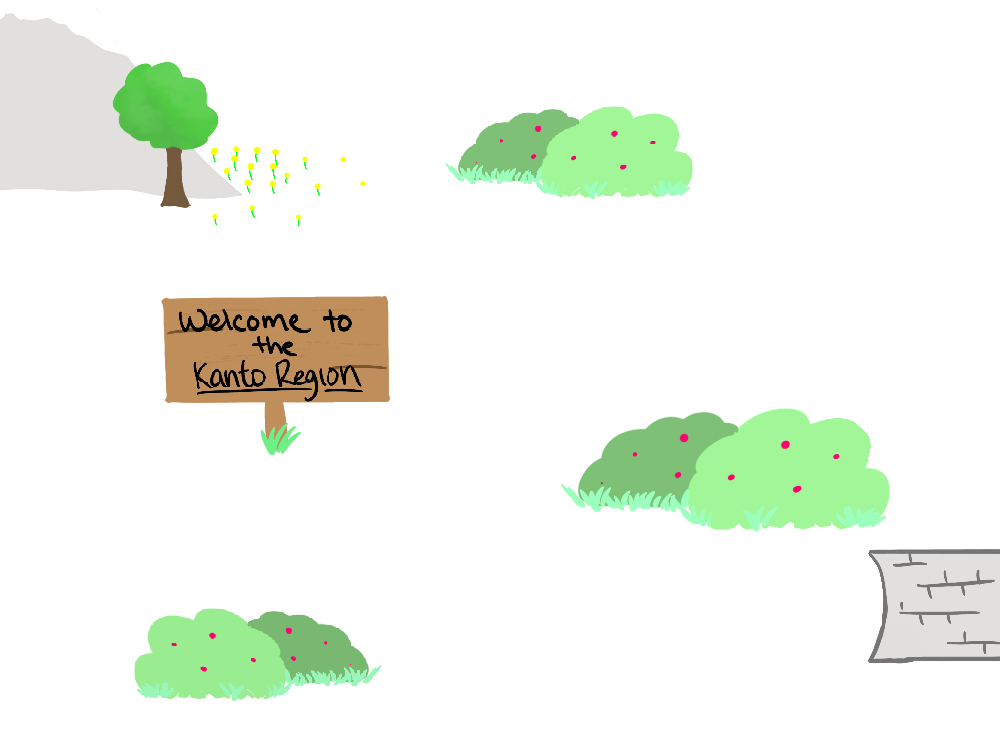
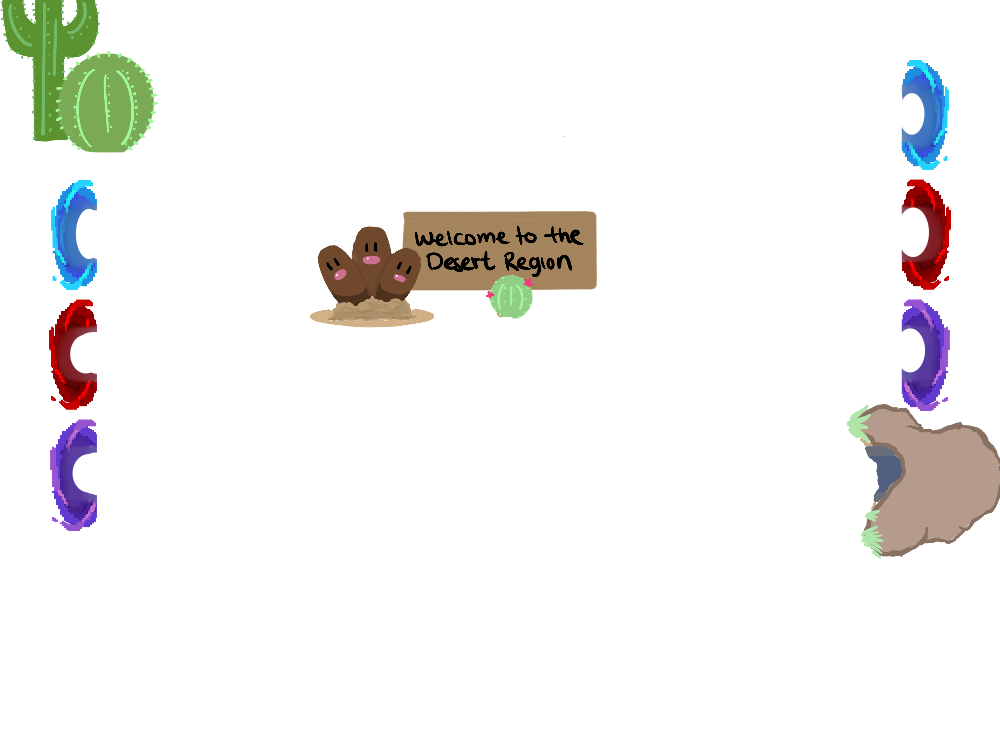
changed bg, roads variables, fixed shooter

diff --git a/lines.py b/lines.py
@@ -3,27 +3,45 @@ import pygame
 from spiral import *
 from balls import *
 
-# top horizontal
-road1 = draw.line(window, (0, 0, 0), (100, 100), (900, 100), 1)
-# middle horizontal
-road2 = draw.line(window, (0, 0, 0), (100, 300), (900, 300), 1)
-# bottom horizontal
-road5 = draw.line(window, (0, 0, 0), (100, 600), (900, 600), 1)
-# higher vertical
-road3 = draw.line(window, (0, 0, 0), (900, 100), (900, 300), 1)
-# lower vertical
-road4 = draw.line(window, (0, 0, 0), (100, 300), (100, 600), 1)
+# map 1
+road1 = draw.line(window, (0, 0, 0), (100, 100), (900, 100), 1)  # top horizontal
+road2 = draw.line(window, (0, 0, 0), (100, 300), (900, 300), 1)  # middle horizontal
+road5 = draw.line(window, (0, 0, 0), (100, 600), (900, 600), 1)  # bottom horizontal
+road3 = draw.line(window, (0, 0, 0), (900, 100), (900, 300), 1)  # higher vertical
+road4 = draw.line(window, (0, 0, 0), (100, 300), (100, 600), 1)  # lower vertical
+horizRoads1 = [road1, road2, road5]
+vertRoads1 = [road3, road4]
 
-horizRoads = [road1, road2, road5]
-vertRoads = [road3, road4]
+# map 2: horizontal lines top to bottom
+road1 = pygame.draw.line(window, (0, 0, 0), (50, 100), (930, 100), 1)
+road2 = pygame.draw.line(window, (0, 0, 0), (50, 220), (930, 220), 1)
+road3 = pygame.draw.line(window, (0, 0, 0), (50, 340), (930, 340), 1)
+road4 = pygame.draw.line(window, (0, 0, 0), (50, 460), (930, 460), 1)
+horizRoads2 = [road1, road2, road3, road4]
+
+# map 3
+road1 = pygame.draw.line(window, (0, 0, 0), (100, 100), (800, 100), 1)
+road2 = pygame.draw.line(window, (0, 0, 0), (800, 100), (800, 200), 1)
+road3 = pygame.draw.line(window, (0, 0, 0), (100, 200), (800, 200), 1)
+teleport1 = pygame.draw.line(window, (0, 0, 0), (101, 199), (101, 201), 1)
+
+road4 = pygame.draw.line(window, (0, 0, 0), (1000 - 100, 100 + 450), (1000 - 801, 100 + 450), 1)
+road5 = pygame.draw.line(window, (0, 0, 0), (1000 - 800, 99 + 450), (1000 - 800, 201 + 450), 1)
+road6 = pygame.draw.line(window, (0, 0, 0), (1000 - 100, 199 + 450), (1000 - 801, 199 + 450), 1)
+
+horizRoads3 = [road1, road3, road4, road6]
+vertRoads3 = [road2, road5]
 
 
 def map1(ball):
+    horizRoads = horizRoads1
+    vertRoads = vertRoads1
 
     if ball.rect.colliderect(horizRoads[ball.road_h]):
         ball.move(0, ball.x_move)
 
-    if ball.rect.colliderect(vertRoads[ball.road_v]) or (ball.road_v >= 1 and ball.rect.colliderect(vertRoads[ball.road_v - 1])):
+    if ball.rect.colliderect(vertRoads[ball.road_v]) or (
+            ball.road_v >= 1 and ball.rect.colliderect(vertRoads[ball.road_v - 1])):
         ball.move(1, ball.y_move)
 
     if ball.rect.colliderect(horizRoads[ball.road_h]) and ball.rect.colliderect(vertRoads[ball.road_v]):
@@ -33,42 +51,24 @@ def map1(ball):
             ball.road_h += 1
             ball.x_move *= -1
 
+
 def map2(ball):
-
-    roadVert = pygame.draw.line(window, (255, 255, 255), (900, 100), (900, 500), 1)
-
-    road1=pygame.draw.line(window, (0, 0, 0), (100, 100), (900, 100), 1)
-
-    road2=pygame.draw.line(window, (0, 0, 0), (100, 220), (900, 220), 1)
-
-    road3=pygame.draw.line(window, (0, 0, 0), (100, 340), (900, 340), 1)
-
-    road4 = pygame.draw.line(window, (0, 0, 0), (100, 460), (900, 460), 1)
-
-    horizRoads=[road1, road2, road3, road4]
+    horizRoads = horizRoads2
 
     if ball.rect.colliderect(horizRoads[ball.road_h]):
         ball.move(0, ball.x_move)
 
-    if ball.pos[0] >= 900 and ball.road_h < 3:
+    if ball.pos[0] >= 910 and ball.road_h < 3:
         yCoordinate = ball.positionY()
-        ball.changePos(100, yCoordinate + 120)
+        ball.changePos(55, yCoordinate + 120)
         ball.road_h += 1
+
 
 def map3(ball):
     added = True
-    road1=pygame.draw.line(window, (0, 0, 0), (100, 100), (800, 100), 1)
-    road2=pygame.draw.line(window, (0, 0, 0), (800, 100), (800, 200), 1)
-    road3=pygame.draw.line(window, (0, 0, 0), (100, 200), (800, 200), 1)
-    teleport1=pygame.draw.line(window, (0,0,0), (101,199), (101,201),1)
-
-    road4 = pygame.draw.line(window, (0, 0, 0), (1000-100, 100+450), (1000-801, 100+450), 1)
-    road5 = pygame.draw.line(window, (0, 0, 0), (1000-800, 99+450), (1000-800, 201+450), 1)
-    road6 = pygame.draw.line(window, (0, 0, 0), (1000-100, 199+450), (1000-801, 199+450), 1)
-
-    horizRoads=[road1, road3, road4, road6]
-    vertRoads=[road2, road5]
-    horizRoadsMove=[1,-1,-1,1]
+    horizRoads = horizRoads3
+    vertRoads = vertRoads3
+    horizRoadsMove = [1, -1, -1, 1]
 
     if ball.rect.colliderect(horizRoads[ball.road_h]):
         ball.x_move = abs(ball.x_move) * horizRoadsMove[ball.road_h]
@@ -88,9 +88,7 @@ def map3(ball):
         ball.road_v = 1
         ball.road_h = 3
 
-    # if ball.rect.colliderect(horizRoads[3]) and ball.rect.colliderect(vertRoads[1]) and not added:
-    #     ball.road_h = 3
     elif ball.rect.colliderect(teleport1):
-        ball.changePos(1000-100, 100+450)
+        ball.changePos(1000 - 100, 100 + 450)
         ball.road_v = 1
         ball.road_h = 2

diff --git a/main.py b/main.py
@@ -18,25 +18,26 @@ def ingame(map, level):
 
         back.shooter_move()
         # the bottom background
-        window.blit(load("bg1a.png"), (0, 0))
+        window.blit(load("bg" + str(map) + "a.png"), (0, 0))
 
         # move the balls in the list base on the collision with lines
         for count in range(len(ball_list)):
             ball = ball_list[count]
             ball.rect.center = ball.pos
             # balls off the path at the start
-            if ball.pos[0] < 100:
+            if ball.pos[0] < 100 and ball.pos[1] <= 100:
                 ball.move(0, ball.x_move)
             # for the balls to follow map
             else:
+                balls_exist.add(ball.type)
                 if map == 0:
                     map1(ball)
                 elif map == 1:
                     map2(ball)
                 else:
                     map3(ball)
-            ball.draw(window)
-        window.blit(load("bg1b.png"), (0, 0))
+                ball.draw(window)
+        window.blit(load("bg" + str(map) + "b.png"), (0, 0))
 
         for event in pygame.event.get():
             if event.type == pygame.QUIT:  # if you quit pygame
@@ -50,13 +51,11 @@ def ingame(map, level):
                 fly = front
                 front = back
                 back = pokeballs(pick_ball(), 0, 0, 0, 0, 0)
-                draw_shooter(map, window, front, back)
 
         fly.shooter_move()
         fly.draw(window)
 
-        if not pygame.event.get():
-            draw_shooter(map, window, front, back)
+        draw_shooter(map, window, front, back)
 
         pygame.display.update()
 

diff --git a/shooter.py b/shooter.py
@@ -30,6 +30,7 @@ def follow_shooter(window, ball, center, distance, pos):
         ball.angle = 90
     else:
         ball.angle = 270
+    ball.draw(window)
 
 
 def draw_shooter(map, window, front, back):
@@ -38,8 +39,5 @@ def draw_shooter(map, window, front, back):
         shooter = pygame.image.load("shooter 1.png")
         shooter = pygame.transform.scale(shooter, (112, 190))
         follow_shooter(window, front, center, 85, pygame.mouse.get_pos())
-        front.draw(window)
         follow_shooter(window, back, center, -35, pygame.mouse.get_pos())
-        back.angle += 180
-        back.draw(window)
         rotate_shooter(window, center[0], center[1], pygame.mouse.get_pos(), shooter)

diff --git a/balls.py b/balls.py
@@ -9,6 +9,7 @@ for i in range(7):
 
 balls_exist = set()
 
+
 def pick_ball():
     while True:
         rand = randint(0, 6)
@@ -31,7 +32,7 @@ def generate_ball(level):
 
 # pokeball class with the ball_image, position, rotate of angle and rect for collision
 class pokeballs:
-    def __init__(self, ball_type, x_pos=0, y_pos=0, rotate=randint(0, 2), x_move=1, y_move=1):
+    def __init__(self, ball_type, x_pos=0, y_pos=0, rotate=randint(0, 2), x_move=3, y_move=3):
         self.type = ball_type
         self.rotate = rotate  # the rotation of the ball
         self.ball_image = ball_images[self.type][self.rotate]
